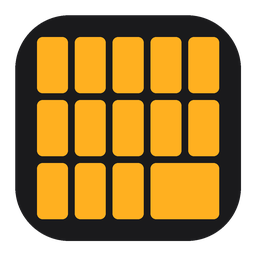
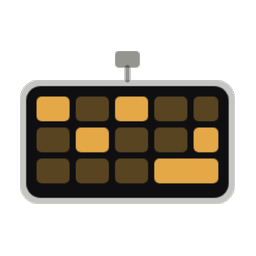
Step 1, as the Marketplace actually walks you through it
Three screens, not one: the Add from a GitHub link dialog, the Custom
repositories list with Ulanzi Deck sitting in it as an Integration, and the
page that opens when you click that row. The button on that page says Install,
not Download, so the text says Install.

The integration's icon is the deck drawing from the guide, cut out and dropped
into brand/, which is also what the illustration of that page now shows.
Before this it was the grey "icon not available" placeholder, because nothing
by this name exists in Home Assistant's brands repository.

diff --git a/docs/index.html b/docs/index.html
@@ -234,33 +234,31 @@ figcaption{font-family:var(--mono);font-size:11px;color:var(--ink-faint);padding
       <div class="txt">
         <h3>Download from the Marketplace</h3>
         <p>In <strong>Settings → Marketplace</strong>, press the three dots at the top right and choose <strong>Custom repositories</strong>. Press <strong>Add from link</strong> at the bottom right, paste <code>https://github.com/sygad/ulanzi-d200-ha-deck</code> and press <strong>Add</strong>. Nothing else is asked; it works out what it is.</p>
-        <p>The dialog then lists <strong>Ulanzi Deck</strong> underneath. Click that entry — its own page opens — and press <strong>Download</strong>. You are not searching for it; it is already there because you just added it.</p>
       </div>
     </div>
     <figure>
       <img src="add-repo.png" alt="The Add from a GitHub link dialog, with the repository address typed in"
            style="display:block;width:100%;border-radius:10px;border:1px solid var(--hair)">
     </figure>
-    <figure>
-      <div class="ha">
-        <nav class="ha-rail" aria-label="Sidebar">
-          <div class="brand"><s></s>Home Assistant</div>
-          <a href="#1"><u></u>Overview</a>
-          <a href="#1"><u></u>History</a>
-          <a href="#1"><u></u>Developer tools</a>
-          <a class="on" href="#1"><u></u>Settings</a>
-        </nav>
-        <div class="ha-view">
-          <div class="ha-top"><span>Marketplace</span><em>custom repository added</em></div>
-          <div class="ha-pane">
-            <div class="line">
-              <span class="deckmark"><s></s><s class="dim"></s><s></s><s class="dim"></s><s class="dim"></s><s></s><s class="dim"></s><s></s></span>
-              <span class="meta"><b>Ulanzi Deck</b><span>Turn an Ulanzi D200 into a Home Assistant control deck</span></span>
-              <span class="go">Download</span>
-            </div>
-          </div>
-        </div>
+    <div class="step-head">
+      <div class="num" style="visibility:hidden">1</div>
+      <div class="txt">
+        <p><strong>Ulanzi Deck</strong> is then in the list, as an Integration. Click that row.</p>
       </div>
+    </div>
+    <figure>
+      <img src="repo-list.png" alt="The Custom repositories list with Ulanzi Deck in it"
+           style="display:block;width:100%;border-radius:10px;border:1px solid var(--hair)">
+    </figure>
+    <div class="step-head">
+      <div class="num" style="visibility:hidden">1</div>
+      <div class="txt">
+        <p>Its own page opens. Press <strong>Install</strong>.</p>
+      </div>
+    </div>
+    <figure>
+      <img src="install.png" alt="The Ulanzi Deck page in the Marketplace, with an Install button"
+           style="display:block;width:100%;border-radius:10px;border:1px solid var(--hair)">
     </figure>
   </article>
 

diff --git a/README.md b/README.md
@@ -37,9 +37,7 @@ nothing of yours is touched. Press **PREVIEW** and the keys answer.
 ## 1 &nbsp; Download from the Marketplace
 
 In **Settings → Marketplace**, press the three dots at the top right and choose
-**Custom repositories**.
-
-Press **Add from link** at the bottom right, paste
+**Custom repositories**. Press **Add from link** at the bottom right, paste
 `https://github.com/sygad/ulanzi-d200-ha-deck` and press **Add**. Nothing else is asked;
 it works out what it is.
 
@@ -48,13 +46,22 @@ it works out what it is.
 <img src="images/guide/fig-step1-add.png" alt="The Add from a GitHub link dialog, with the repository address typed in" width="100%">
 
 <br>
+<br>
 
-The list then has **Ulanzi Deck** in it. Click that row — its own page opens — and press
-**Download**. You are not searching for it; it is already there because you just added it.
+**Ulanzi Deck** is then in the list, as an Integration. Click that row.
 
 <br>
 
-<img src="images/guide/fig-step1.png" alt="The Marketplace in Home Assistant, with Ulanzi Deck listed and a Download button" width="100%">
+<img src="images/guide/fig-step1-list.png" alt="The Custom repositories list with Ulanzi Deck in it" width="100%">
+
+<br>
+<br>
+
+Its own page opens. Press **Install**.
+
+<br>
+
+<img src="images/guide/fig-step1-install.png" alt="The Ulanzi Deck page in the Marketplace, with an Install button" width="100%">
 
 <br>
 
